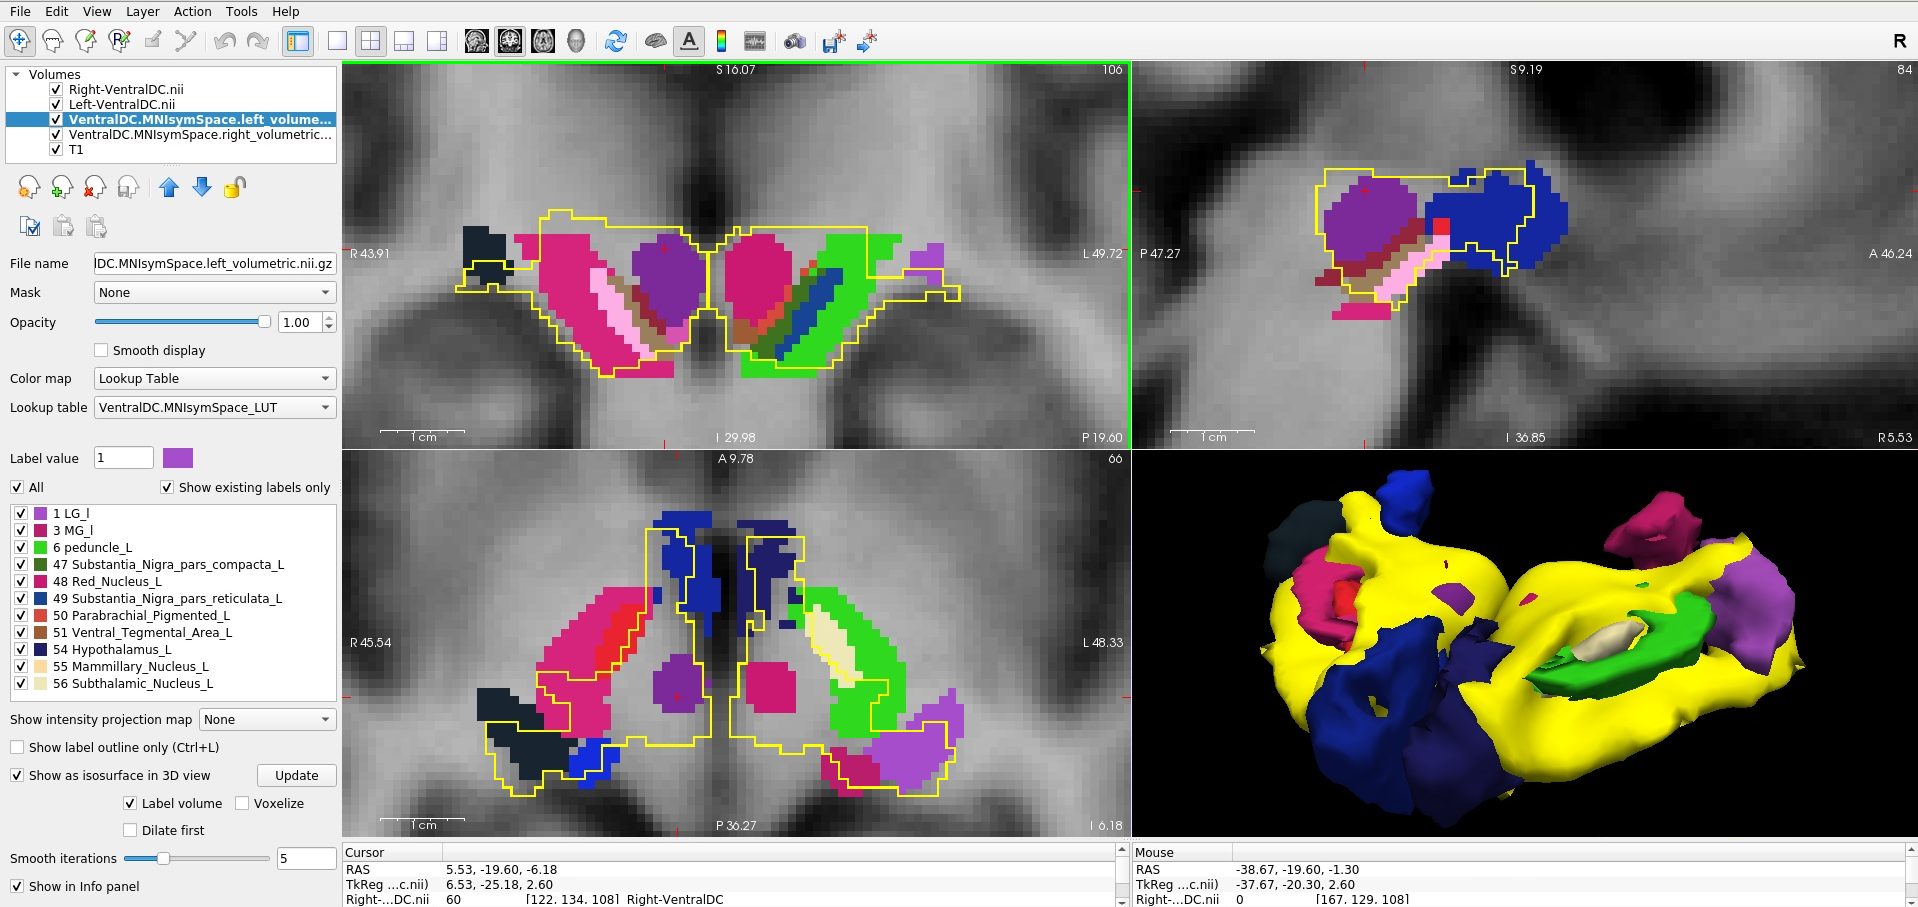
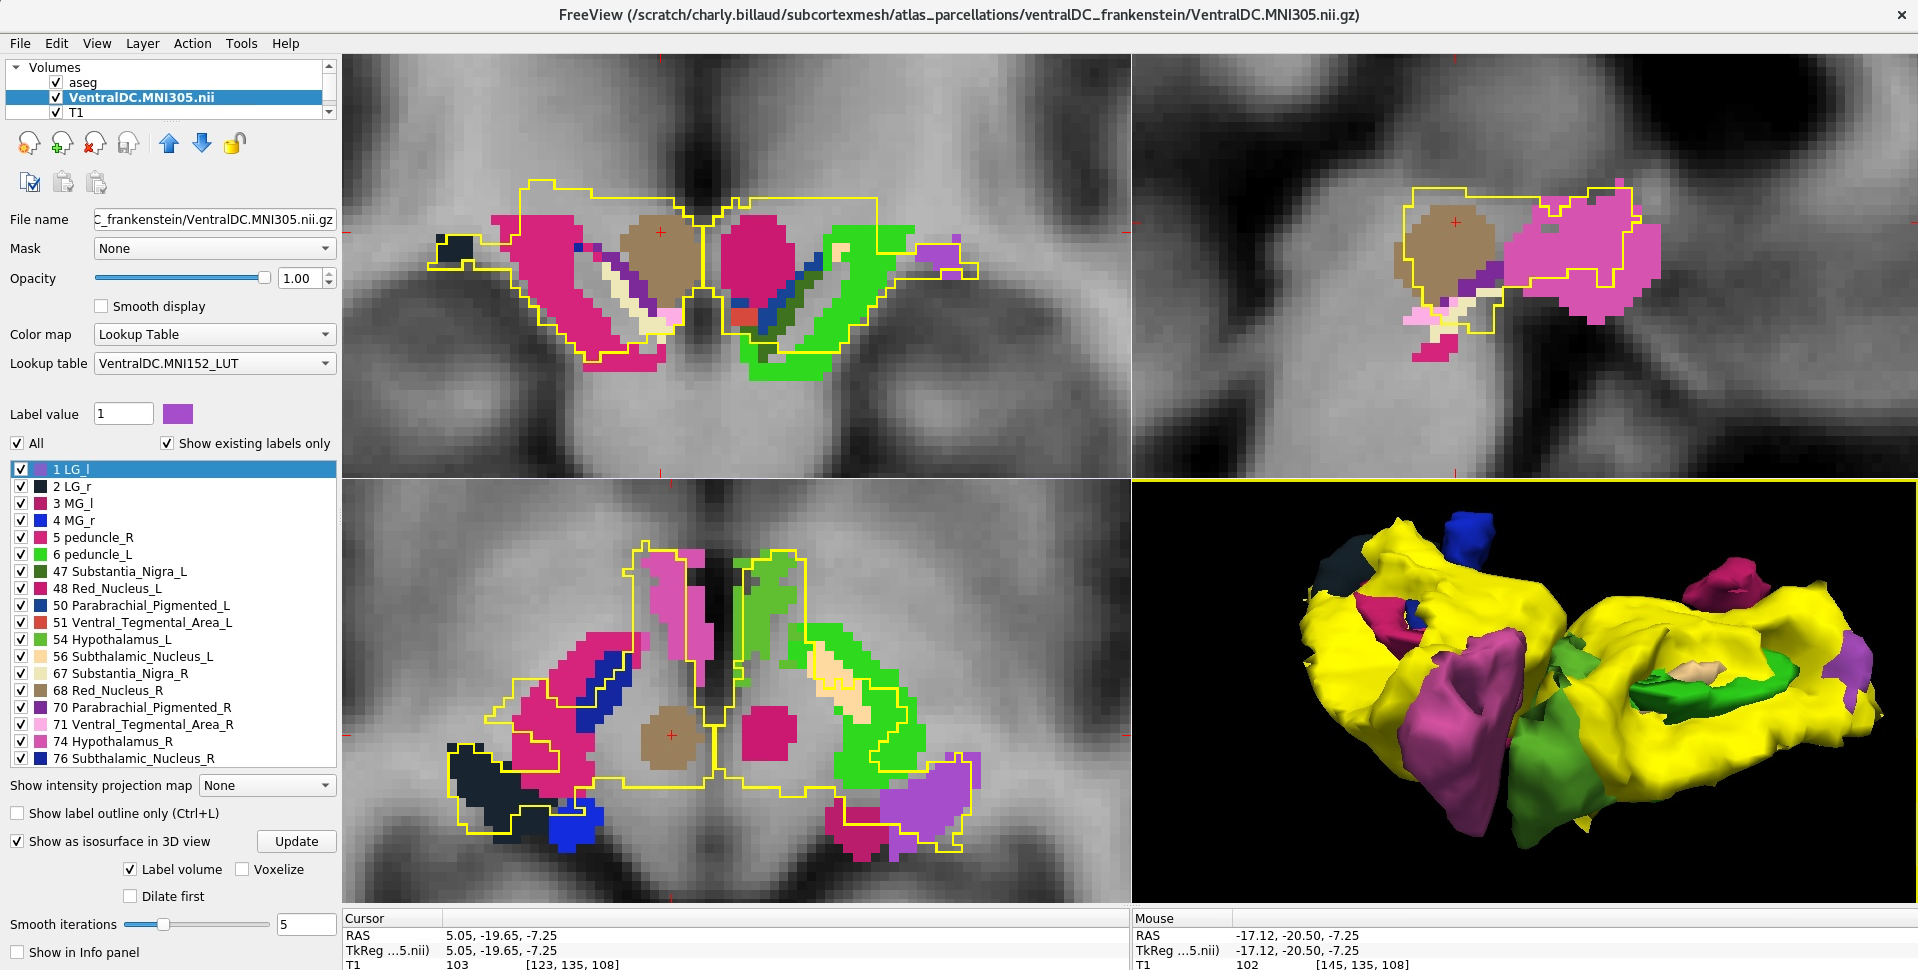
Update with MNI305 space

diff --git a/code/VentralDC_Frankenstein_merger.py b/code/VentralDC_Frankenstein_merger.py
@@ -1,6 +1,7 @@
-#Code to extract and merge: Brainstem Navigator's geniculate nuclei with minimal probability threshold, same as was done for the FreeSurfer hippocampal/brainstem/thalamic segmentations, JHU DTI atlas's cerebral peduncles, and CIT168's nuclei (overlapping with ventral-DC)
+#Code to extract and merge: Brainstem Navigator's geniculate nuclei with minimal probability threshold, JHU DTI atlas's cerebral peduncles, and CIT168's nuclei (overlapping with ventral-DC); and finally resample them to MNI305
 #Mostly shamelessly Claude-generated (with several tweaks) 
 #It is intended to be run from a root directory that includes 3 subdirectories, i.e. "2b.diencephalicNucleiAtlas_MNI/" (including LG and MG volumes), "JHU/" (including the JHU atlas), and "CIT168/" including the CIT168toMNI152-2009c_det atlas (split using CIT168_splitter.py).
+#It also requires $FREESURFER_HOME/average/mni305.cor.mgz (ASeg's space) to be copied to the working directory (or simply change the path when it is loaded)
 
 import nibabel as nib
 import numpy as np
@@ -133,3 +134,54 @@ final_img = nib.Nifti1Image(final, targ_affine, targ_img.header)
 final_img.header.set_data_dtype(np.int16)
 nib.save(final_img, "VentralDC.MNI152.nii.gz")
 
+############################################################
+#MNI152 to MNI305 (ventral DC's space)
+
+# --- MNI152_to_MNI305 matrix, borrowed from neuroatlas R package (R/coordinate_spaces.R) ---
+# Reference: Buchsbaum B (2026). neuroatlas: Neuroimaging Atlases and Parcellations. R package version 0.1.0, https://github.com/bbuchsbaum/neuroatlas.
+
+# reconstructed correctly from R's column-major matrix() fill, verified against
+# the package's own docstring worked examples
+MNI305_to_MNI152 = np.array([
+    [ 0.9975, -0.0073,  0.0176, -0.0429],
+    [ 0.0146,  1.0009, -0.0024,  1.5496],
+    [-0.0130, -0.0093,  0.9971,  1.1840],
+    [ 0.0,     0.0,     0.0,     1.0   ],
+])
+MNI152_to_MNI305 = np.linalg.inv(MNI305_to_MNI152)
+
+# --- source: your merged volume, MNI152 space ---
+# `final` here is the label array you already built in the merge step
+src_data = final.astype(np.float64)
+src_affine = targ_affine  # <-- this is the JHU/combined grid's affine from your merge script
+
+# --- target grid: load mni305.cor.mgz DIRECTLY, no mri_convert step ---
+# CRITICAL: for this specific file, tkreg RAS == true MNI305 coordinates.
+# Using the scanner-RAS affine (what mri_convert to .nii.gz gives you) instead
+# of vox2ras_tkr is what caused the "completely off" result.
+mni305_mgh = nib.load("mni305.cor.mgz")  # $FREESURFER_HOME/average/mni305.cor.mgz
+mni305_affine = mni305_mgh.header.get_vox2ras_tkr()  # true MNI305 coords
+mni305_shape = mni305_mgh.shape
+
+# --- compose: target voxel -> target world (MNI305 RAS)
+#              -> apply matrix (MNI305 RAS -> MNI152 RAS)
+#              -> source world (MNI152 RAS) -> source voxel ---
+# affine_transform maps OUTPUT voxel coords to INPUT voxel coords, so:
+voxel_to_voxel = np.linalg.inv(src_affine) @ MNI305_to_MNI152 @ mni305_affine
+matrix = voxel_to_voxel[:3, :3]
+offset = voxel_to_voxel[:3, 3]
+
+resampled = affine_transform(
+    src_data,
+    matrix=matrix,
+    offset=offset,
+    output_shape=mni305_shape,
+    order=0,        # nearest-neighbor, mandatory for integer labels
+    mode='constant',
+    cval=0,
+)
+
+resampled = resampled.astype(np.int16)
+out_img = nib.Nifti1Image(resampled, mni305_affine)  # MGHHeader isn't valid for Nifti1Image
+out_img.header.set_data_dtype(np.int16)
+nib.save(out_img, "VentralDC.MNI305.nii.gz")

diff --git a/README.md b/README.md
@@ -7,7 +7,7 @@ The ventral DC is [documented](https://surfer.nmr.mgh.harvard.edu/fswiki/Subcort
 > "[...] "ventral diencephalon" region that subtends many of the smaller nuclei and structures in the area inferior to the thalamus, such as hypothalamus, red nuclei, later and medial geniculate, etc. [...] As defined by Makris in Makris, et al. Biol Psychiatry. 2008 Aug 1;64(3):192-202. (paper "...ventral diencephalon (49), which according to our morphometric definition contains the hypothalamus, basal forebrain, and sublenticular extended amygdala (SLEA), as well as a large portion of ventral tegmentum (which is included in our ventral diencephalon region by convention although part of midbrain)"
 
 
-Even though the aseg.mgz volume is in MNI305 and the atlases MNI152, the stitched up regions roughly match the underlying volume (overlapped using FreeSurfer's freeview):
+The stitched up regions roughly match the underlying volume (overlapped using FreeSurfer's freeview):
 
 ![](ventralDC_frankenstein_itsalive.png)
 
@@ -24,9 +24,10 @@ Note: The probability threshold was set to minimal to maximize the mask sizes, a
 **Left and right cerebral peduncles** JHU DTI-based white-matter atlases's (Wakana et al. 2007; Hua et al. 2008; source data: https://identifiers.org/neurovault.image:1401)
 
 # Code
-The script used to merge all the atlas' regions together is stored in "code/VentralDC_Frankenstein_merger.py". It is intended to be run from a root directory that includes 3 subdirectories, i.e. "2b.diencephalicNucleiAtlas_MNI/" (including LG and MG volumes), "JHU/" (including the JHU atlas), and "CIT168/" including the CIT168toMNI152-2009c_det atlas (split using CIT168_splitter.py).
+The script used to merge all the atlas' regions together is stored in "code/VentralDC_Frankenstein_merger.py". It is intended to be run from a root directory that includes 3 subdirectories, i.e. "2b.diencephalicNucleiAtlas_MNI/" (including LG and MG volumes), "JHU/" (including the JHU atlas), and "CIT168/" including the CIT168toMNI152-2009c_det atlas (split using CIT168_splitter.py). The script extract each label of interest separately, relabels them to get consistent IDs, combines them together into the same volume. It ouputs the volume in their initial MNI152 space but also a version resampled to MNI305 (ASeg's space) using the transformation matrix from Buchsbaum (2026).
 
 # References
+- Buchsbaum B (2026). neuroatlas: Neuroimaging Atlases and Parcellations. R package version 0.1.0, https://github.com/bbuchsbaum/neuroatlas.
 - Fischl, B. (2012). FreeSurfer. Neuroimage, 62(2), 774-781.
 - García-Gomar, M. G., Strong, C., Toschi, N., Singh, K., Rosen, B. R., Wald, L. L., & Bianciardi, M. (2019). In vivo probabilistic structural atlas of the inferior and superior colliculi, medial and lateral geniculate nuclei and superior olivary complex in humans based on 7 Tesla MRI. Frontiers in neuroscience, 13, 764.
 Pauli, W. M., Nili, A. N., & Tyszka, J. M. (2018). A high-resolution probabilistic in vivo atlas of human subcortical brain nuclei. Scientific data, 5(1), 180063.
